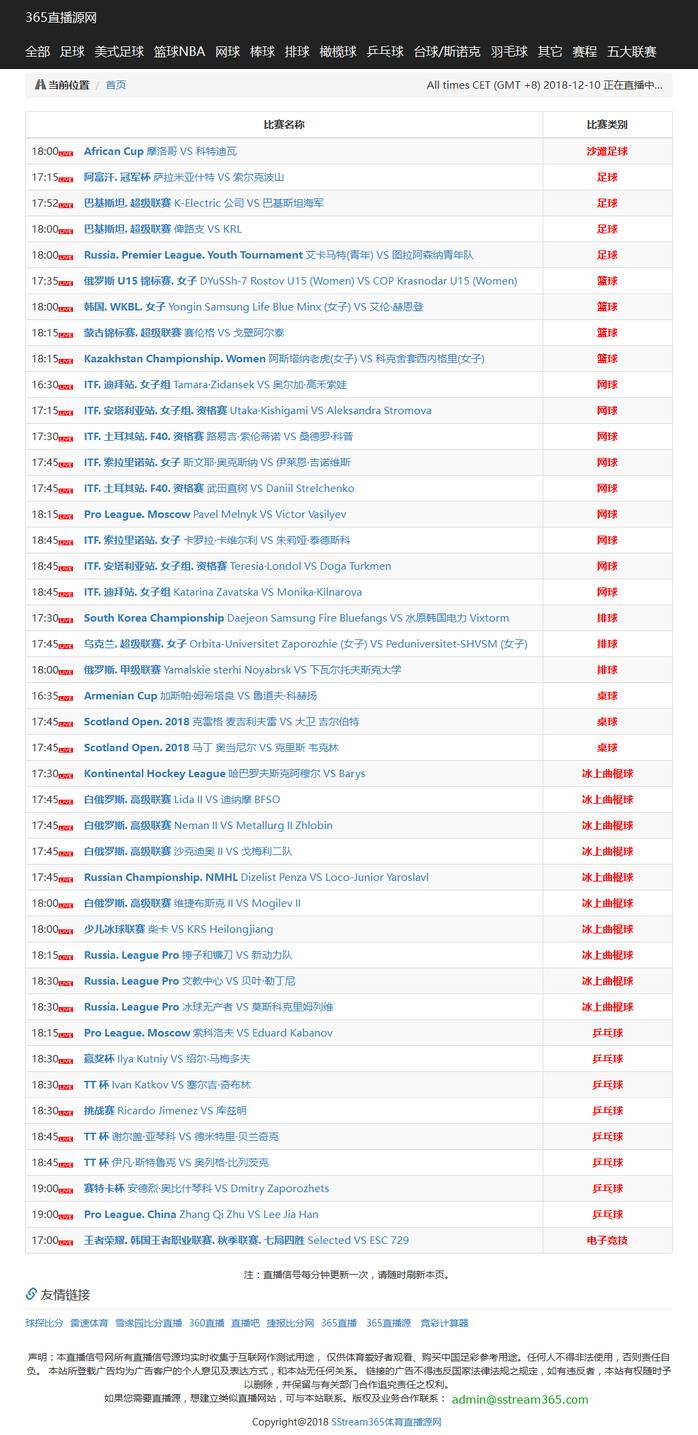
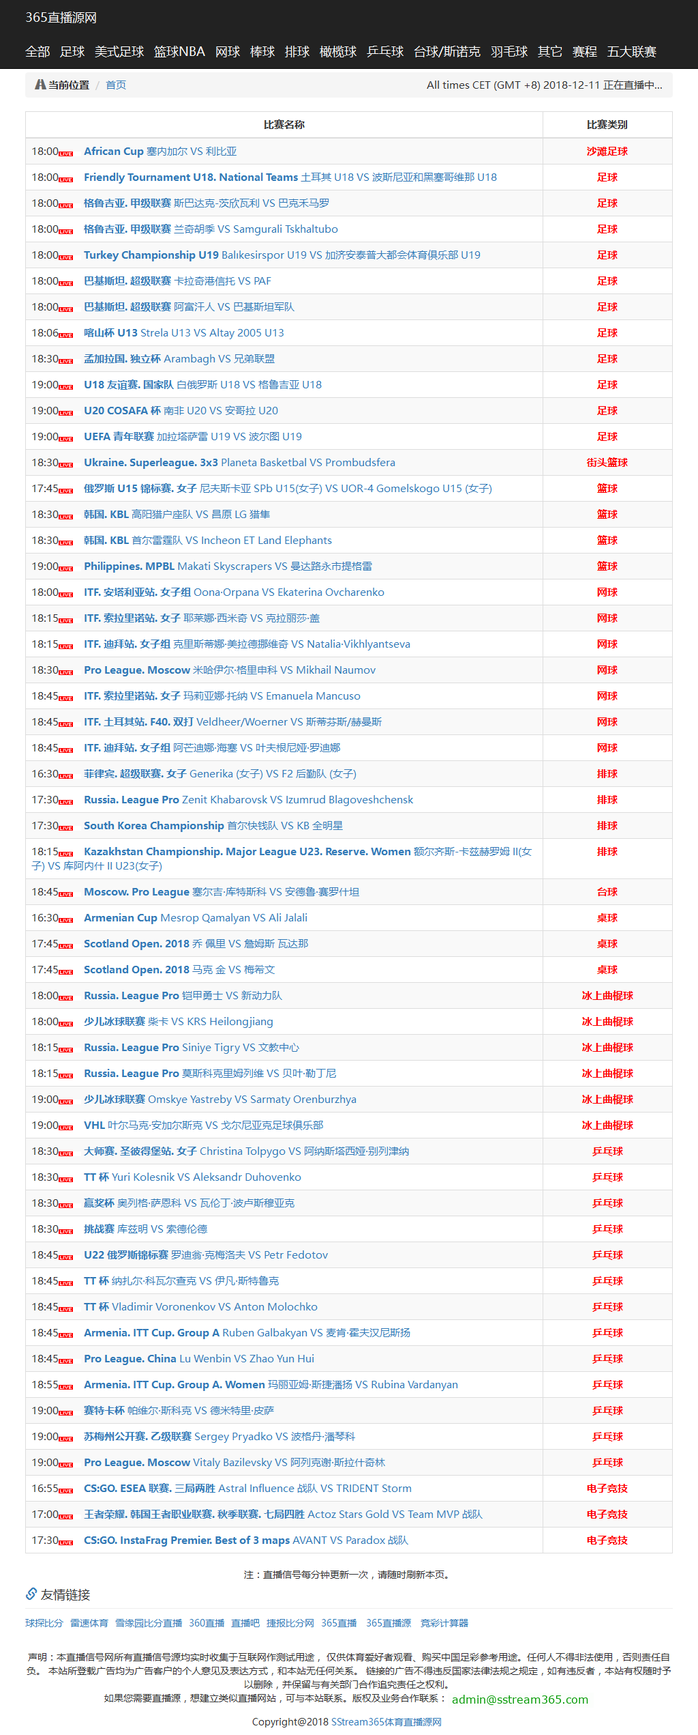
新增爬入数据库

Changed region(s): [[0.0, 0.0, 1.0, 1.0], [0.5938, 0.7727, 0.6562, 0.8036], [0.6875, 0.1854, 0.7188, 0.2164]]

diff --git a/hehe.html b/hehe.html
@@ -49,7 +49,7 @@
         <span class="glyphicon glyphicon-road"></span>
         <strong>当前位置</strong>
       </li>
-      <li class="active"><a href="/">首页</a></li>       <p class="pull-right visible-lg visible-md">All times CET  (GMT +8) 2018-12-10 正在直播中... </p>
+      <li class="active"><a href="/">首页</a></li>       <p class="pull-right visible-lg visible-md">All times CET  (GMT +8) 2018-12-11 正在直播中... </p>
   </ol>  
 	<div class="table-responsive">
   <table class="table table-striped table-bordered table-responsive">
@@ -61,133 +61,166 @@
     </thead>    
     <tbody>
     	<tr>
-        <td class="col-md-8">18:00<img src="/images/live.gif" border="0" title="Live...">  <a href="/League/Beach+Soccer/1843852.html"><b>African Cup</b></a> <a href="/live/Beach+Soccer/I1wVejkJkIxixsC2cEjcsDgyhBxgMto/Morocco_VS_Ivory+Coast/">摩洛哥 VS 科特迪瓦</a></td>
+        <td class="col-md-8">18:00<img src="/images/live.gif" border="0" title="Live...">  <a href="/League/Beach+Soccer/1843852.html"><b>African Cup</b></a> <a href="/live/Beach+Soccer/eQ0SJz1dxNtixsC2dkXbvDgxhRJgPdo/Senegal_VS_Libya/">塞内加尔 VS 利比亚</a></td>
         <td class="col-md-2 text-center"><font color="#FF0000"><b>沙滩足球</b></font></td>
         </tr><tr>
-        <td class="col-md-8">17:15<img src="/images/live.gif" border="0" title="Live...">  <a href="/League/Football/1842660.html"><b>阿富汗. 冠军杯</b></a> <a href="/live/Football/eVtELD0Ox4hh3t+3c0HcvCIuhRZtOtJd1Q/Saramyasht_VS_Sorkh+Poshan/">萨拉米亚什特 VS 索尔克波山</a></td>
+        <td class="col-md-8">18:00<img src="/images/live.gif" border="0" title="Live...">  <a href="/League/Football/1455757.html"><b>Friendly Tournament U18. National Teams</b></a> <a href="/live/Football/IVlGKz0Ix9Zh3t6ydUPZpCE1gRFo/Turkey+U18_VS_Bosnia+and+Herzegovina+U18/">土耳其 U18 VS 波斯尼亚和黑塞哥维那 U18</a></td>
         <td class="col-md-2 text-center"><font color="#FF0000"><b>足球</b></font></td>
         </tr><tr>
-        <td class="col-md-8">17:52<img src="/images/live.gif" border="0" title="Live...">  <a href="/League/Football/118671.html"><b>巴基斯坦. 超级联赛</b></a> <a href="/live/Football/JVBGezsJxYxh3t+0ckjavCIuhR1rPNI/K-Electric_VS_Pakistan+Navy/">K-Electric 公司 VS 巴基斯坦海军</a></td>
+        <td class="col-md-8">18:00<img src="/images/live.gif" border="0" title="Live...">  <a href="/League/Football/30539.html"><b>格鲁吉亚. 甲级联赛</b></a> <a href="/live/Football/c1pDKmwLxN1h3t+3dUbZpCY1hRNg/Tskhinvali_VS_Bakhmaro+Chokhatauri/">斯巴达克-茨欣瓦利 VS 巴克禾马罗</a></td>
         <td class="col-md-2 text-center"><font color="#FF0000"><b>足球</b></font></td>
         </tr><tr>
-        <td class="col-md-8">18:00<img src="/images/live.gif" border="0" title="Live...">  <a href="/League/Football/118671.html"><b>巴基斯坦. 超级联赛</b></a> <a href="/live/Football/dV4fejYGzdZh3t60cEHXpCQygBJgMw/Baloch_VS_KRL/">俾路支 VS KRL</a></td>
+        <td class="col-md-8">18:00<img src="/images/live.gif" border="0" title="Live...">  <a href="/League/Football/30539.html"><b>格鲁吉亚. 甲级联赛</b></a> <a href="/live/Football/eV9Dejlcw4th3t+9cEDdpCYxgBNu/Guria+Lanchkhuti_VS_Samgurali+Tskhaltubo/">兰奇胡季 VS Samgurali Tskhaltubo</a></td>
         <td class="col-md-2 text-center"><font color="#FF0000"><b>足球</b></font></td>
         </tr><tr>
-        <td class="col-md-8">18:00<img src="/images/live.gif" border="0" title="Live...">  <a href="/League/Football/119393.html"><b>Russia. Premier League. Youth Tournament</b></a> <a href="/live/Football/I14ULjpewd1h3tq9dUDbujg7gx1hOw/Akhmat+%28Youth%29_VS_Arsenal+Tula+%28Youth%29/">艾卡马特(青年) VS 图拉阿森纳青年队</a></td>
+        <td class="col-md-8">18:00<img src="/images/live.gif" border="0" title="Live...">  <a href="/League/Football/261997.html"><b>Turkey Championship U19</b></a> <a href="/live/Football/d14eKm1extph3tyzc0fYujg6hBFqPtI/Bal%C4%B1kesirspor+U19_VS_Gazisehir+Gaziantep+U19/">Balıkesirspor U19 VS 加济安泰普大都会体育俱乐部 U19</a></td>
         <td class="col-md-2 text-center"><font color="#FF0000"><b>足球</b></font></td>
         </tr><tr>
-        <td class="col-md-8">17:35<img src="/images/live.gif" border="0" title="Live...">  <a href="/League/Basketball/1535427.html"><b>俄罗斯 U15 锦标赛. 女子</b></a> <a href="/live/Basketball/dwpCLD0Pw4xj3t+3ckPWvCIuhRZsOdNb2w/DYuSSh-7+Rostov+U15+%28Women%29_VS_COP+Krasnodar+U15+%28Women%29/">DYuSSh-7 Rostov U15 (Women) VS COP Krasnodar U15 (Women)</a></td>
+        <td class="col-md-8">18:00<img src="/images/live.gif" border="0" title="Live...">  <a href="/League/Football/118671.html"><b>巴基斯坦. 超级联赛</b></a> <a href="/live/Football/IQ8SJzpezdxh3t+8dkPdpCc7jhZo/Karachi+Port+Trust_VS_PAF/">卡拉奇港信托 VS PAF</a></td>
+        <td class="col-md-2 text-center"><font color="#FF0000"><b>足球</b></font></td>
+        </tr><tr>
+        <td class="col-md-8">18:00<img src="/images/live.gif" border="0" title="Live...">  <a href="/League/Football/118671.html"><b>巴基斯坦. 超级联赛</b></a> <a href="/live/Football/dg9FLDwMloth3t60cELfpCc7jhZq/Afghan_VS_Pakistan+Army/">阿富汗人 VS 巴基斯坦军队</a></td>
+        <td class="col-md-2 text-center"><font color="#FF0000"><b>足球</b></font></td>
+        </tr><tr>
+        <td class="col-md-8">18:06<img src="/images/live.gif" border="0" title="Live...">  <a href="/League/Football/1820437.html"><b>喀山杯 U13</b></a> <a href="/live/Football/JFtGJ2hck95h3t+3ckbZuCYuhRZsPNxf1w/Strela+U13_VS_Altay+2005+U13/">Strela U13 VS Altay 2005 U13</a></td>
+        <td class="col-md-2 text-center"><font color="#FF0000"><b>足球</b></font></td>
+        </tr><tr>
+        <td class="col-md-8">18:30<img src="/images/live.gif" border="0" title="Live...">  <a href="/League/Football/1703466.html"><b>孟加拉国. 独立杯</b></a> <a href="/live/Football/JgwXJjoNwtdh3t68dkHavDg3gxRoOw/Arambagh_VS_Brothers+Union/">Arambagh VS 兄弟联盟</a></td>
+        <td class="col-md-2 text-center"><font color="#FF0000"><b>足球</b></font></td>
+        </tr><tr>
+        <td class="col-md-8">19:00<img src="/images/live.gif" border="0" title="Live...">  <a href="/League/Football/1149571.html"><b>U18 友谊赛. 国家队</b></a> <a href="/live/Football/dFBEfWsOl4xh3tm3d0PZpCQ1gBJqOw/Belarus+U18_VS_Georgia+U18/">白俄罗斯 U18 VS 格鲁吉亚 U18</a></td>
+        <td class="col-md-2 text-center"><font color="#FF0000"><b>足球</b></font></td>
+        </tr><tr>
+        <td class="col-md-8">19:00<img src="/images/live.gif" border="0" title="Live...">  <a href="/League/Football/1386525.html"><b>U20 COSAFA 杯</b></a> <a href="/live/Football/cFxEe2oNw99h3tyxf0jZujgwgBFuONI/South+Africa+U20_VS_Angola+U20/">南非 U20 VS 安哥拉 U20</a></td>
+        <td class="col-md-2 text-center"><font color="#FF0000"><b>足球</b></font></td>
+        </tr><tr>
+        <td class="col-md-8">19:00<img src="/images/live.gif" border="0" title="Live...">  <a href="/League/Football/252897.html"><b>UEFA 青年联赛</b></a> <a href="/live/Football/dFxDfToHx99h3t61fkHfpCc6hxVu/Galatasaray+U19_VS_Porto+U19/">加拉塔萨雷 U19 VS 波尔图 U19</a></td>
+        <td class="col-md-2 text-center"><font color="#FF0000"><b>足球</b></font></td>
+        </tr><tr>
+        <td class="col-md-8">18:30<img src="/images/live.gif" border="0" title="Live...">  <a href="/League/Streetball/1844963.html"><b>Ukraine. Superleague. 3x3</b></a> <a href="/live/Streetball/dQ0XfTwMlophw9iodULbvyIxhAlrON5Y1SOi/Planeta+Basketbal_VS_Prombudsfera/">Planeta Basketbal VS Prombudsfera</a></td>
+        <td class="col-md-2 text-center"><font color="#FF0000"><b>街头篮球</b></font></td>
+        </tr><tr>
+        <td class="col-md-8">17:45<img src="/images/live.gif" border="0" title="Live...">  <a href="/League/Basketball/1535427.html"><b>俄罗斯 U15 锦标赛. 女子</b></a> <a href="/live/Basketball/dFsSKDYIxt9j3ty8f0HbvCwuhRFpPd9X/Nevskaya+SPb+U15+%28Women%29_VS_UOR-4+Gomelskogo+U15+%28Women%29/">尼夫斯卡亚 SPb U15(女子) VS UOR-4  Gomelskogo U15 (女子)</a></td>
         <td class="col-md-2 text-center"><font color="#FF0000"><b>篮球</b></font></td>
         </tr><tr>
-        <td class="col-md-8">18:00<img src="/images/live.gif" border="0" title="Live...">  <a href="/League/Basketball/24625.html"><b>韩国. WKBL. 女子</b></a> <a href="/live/Basketball/JlgXLzxdwN5j3t6wdUHZpCcyghVhPNI/Yongin+Samsung+Life+Blue+Minx+%28Women%29_VS_Suwon+OK+Savingbank+OK+Shoot+%28Women%29/">Yongin Samsung Life Blue Minx (女子) VS 艾伦·赫恩登</a></td>
+        <td class="col-md-8">18:30<img src="/images/live.gif" border="0" title="Live...">  <a href="/League/Basketball/118927.html"><b>韩国. KBL</b></a> <a href="/live/Basketball/IwweLm1bl4pj3tq9fkLDvi06jw/Goyang+Orions_VS_Changwon+LG+Sakers/">高阳猎户座队 VS 昌原 LG 猎隼</a></td>
         <td class="col-md-2 text-center"><font color="#FF0000"><b>篮球</b></font></td>
         </tr><tr>
-        <td class="col-md-8">18:15<img src="/images/live.gif" border="0" title="Live...">  <a href="/League/Basketball/1683466.html"><b>蒙古锦标赛. 超级联赛</b></a> <a href="/live/Basketball/dwhGej8OzI9j3ty1cUjZvyYuhRZqM9tf1w/Selenge_VS_Govi-Altai/">赛伦格 VS 戈壁阿尔泰</a></td>
+        <td class="col-md-8">18:30<img src="/images/live.gif" border="0" title="Live...">  <a href="/League/Basketball/118927.html"><b>韩国. KBL</b></a> <a href="/live/Basketball/JFAWKzkHlI9j3tq9fkTDvi06hw/Seoul+Samsung+Thunders_VS_Incheon+ET+Land+Elephants/">首尔雷霆队 VS Incheon ET Land Elephants</a></td>
         <td class="col-md-2 text-center"><font color="#FF0000"><b>篮球</b></font></td>
         </tr><tr>
-        <td class="col-md-8">18:15<img src="/images/live.gif" border="0" title="Live...">  <a href="/League/Basketball/1396971.html"><b>Kazakhstan Championship. Women</b></a> <a href="/live/Basketball/cQhDf29bzIhj3tm2f0XavDgyhhVgPtJZ/Astana+Tigers+%28Women%29_VS_Sinegorie+Kokshetau+%28Women%29/">阿斯塔纳老虎(女子) VS 科克舍套西内格里(女子)</a></td>
+        <td class="col-md-8">19:00<img src="/images/live.gif" border="0" title="Live...">  <a href="/League/Basketball/1718899.html"><b>Philippines. MPBL</b></a> <a href="/live/Basketball/dwsXKGxbx9tj3tyyc0XXvSQuhhNrP9td0w/Makati+Skyscrapers_VS_Mandaluyong+El+Tigre/">Makati Skyscrapers VS 曼达路永市提格雷</a></td>
         <td class="col-md-2 text-center"><font color="#FF0000"><b>篮球</b></font></td>
         </tr><tr>
-        <td class="col-md-8">16:30<img src="/images/live.gif" border="0" title="Live...">  <a href="/League/Tennis/129071.html"><b>ITF. 迪拜站. 女子组</b></a> <a href="/live/Tennis/eV9DK2xalt1k3tu1f0bZpCQwghQ/Tamara+Zidansek_VS_Olga+Govortsova/">Tamara·Zidansek VS 奥尔加·高禾索娃</a></td>
+        <td class="col-md-8">18:00<img src="/images/live.gif" border="0" title="Live...">  <a href="/League/Tennis/103369.html"><b>ITF. 安塔利亚站. 女子组</b></a> <a href="/live/Tennis/cA9DKm9clItk3t+0d0HXuDgxghdvPd4/Oona+Orpana_VS_Ekaterina+Ovcharenko/">Oona·Orpana VS Ekaterina Ovcharenko</a></td>
         <td class="col-md-2 text-center"><font color="#FF0000"><b>网球</b></font></td>
         </tr><tr>
-        <td class="col-md-8">17:15<img src="/images/live.gif" border="0" title="Live...">  <a href="/League/Tennis/892515.html"><b>ITF. 安塔利亚站. 女子组. 资格赛</b></a> <a href="/live/Tennis/eAoWK28GxIxk3ty0f0TWujgyhhBsMt1b/Utaka+Kishigami_VS_Aleksandra+Stromova/">Utaka·Kishigami VS Aleksandra Stromova</a></td>
+        <td class="col-md-8">18:15<img src="/images/live.gif" border="0" title="Live...">  <a href="/League/Tennis/959383.html"><b>ITF. 索拉里诺站. 女子</b></a> <a href="/live/Tennis/dghDKjYGlN1k3t+1f0XfpC0wgR1vOw/Jelena+Simic_VS_Clarissa+Gai/">耶莱娜·西米奇 VS 克拉丽莎·盖</a></td>
         <td class="col-md-2 text-center"><font color="#FF0000"><b>网球</b></font></td>
         </tr><tr>
-        <td class="col-md-8">17:30<img src="/images/live.gif" border="0" title="Live...">  <a href="/League/Tennis/260047.html"><b>ITF. 土耳其站. F40. 资格赛</b></a> <a href="/live/Tennis/eV0WLjhcw4hk3t60cEfZsDg0gB1pMtg/Luigi+Sorrentino_VS_Sandro+Kopp/">路易吉·索伦蒂诺 VS 桑德罗·科普</a></td>
+        <td class="col-md-8">18:15<img src="/images/live.gif" border="0" title="Live...">  <a href="/League/Tennis/129071.html"><b>ITF. 迪拜站. 女子组</b></a> <a href="/live/Tennis/IlgUKTwNl9hk3ty2dkjDuyIzhB0/Kristina+Mladenovic_VS_Natalia+Vikhlyantseva/">克里斯蒂娜·美拉德挪维奇 VS Natalia·Vikhlyantseva</a></td>
         <td class="col-md-2 text-center"><font color="#FF0000"><b>网球</b></font></td>
         </tr><tr>
-        <td class="col-md-8">17:45<img src="/images/live.gif" border="0" title="Live...">  <a href="/League/Tennis/959383.html"><b>ITF. 索拉里诺站. 女子</b></a> <a href="/live/Tennis/cQpBKGhZl9dk3t6zcELfvDgxghFvPw/Svenja+Ochsner_VS_Elaine+Genovese/">斯文耶·奥克斯纳 VS 伊莱恩·吉诺维斯</a></td>
+        <td class="col-md-8">18:30<img src="/images/live.gif" border="0" title="Live...">  <a href="/League/Tennis/1821460.html"><b>Pro League. Moscow</b></a> <a href="/live/Tennis/dVweKDhewtlk3t+0cEbZuiYuhRVoM9lW1Q/Mikhail+Grishchenko_VS_Mikhail+Naumov/">米哈伊尔·格里申科 VS Mikhail Naumov</a></td>
         <td class="col-md-2 text-center"><font color="#FF0000"><b>网球</b></font></td>
         </tr><tr>
-        <td class="col-md-8">17:45<img src="/images/live.gif" border="0" title="Live...">  <a href="/League/Tennis/260047.html"><b>ITF. 土耳其站. F40. 资格赛</b></a> <a href="/live/Tennis/cgsWLW9ekNtk3tm0fkTYsDgygRZpO9xX/Naoki+Takeda_VS_Daniil+Strelchenko/">武田直树 VS Daniil Strelchenko</a></td>
+        <td class="col-md-8">18:45<img src="/images/live.gif" border="0" title="Live...">  <a href="/League/Tennis/959383.html"><b>ITF. 索拉里诺站. 女子</b></a> <a href="/live/Tennis/eQsfe2tZlIxk3t+0ckTXpCcxghBrO9g/Miriana+Tona_VS_Emanuela+Mancuso/">玛莉亚娜·托纳 VS Emanuela Mancuso</a></td>
         <td class="col-md-2 text-center"><font color="#FF0000"><b>网球</b></font></td>
         </tr><tr>
-        <td class="col-md-8">18:15<img src="/images/live.gif" border="0" title="Live...">  <a href="/League/Tennis/1821460.html"><b>Pro League. Moscow</b></a> <a href="/live/Tennis/Jg1ELz8Nk49k3t+0dkbbuyIuhRVoPN9Y0w/Pavel+Melnyk_VS_Victor+Vasilyev/">Pavel Melnyk VS Victor Vasilyev</a></td>
+        <td class="col-md-8">18:45<img src="/images/live.gif" border="0" title="Live...">  <a href="/League/Tennis/260429.html"><b>ITF. 土耳其站. F40. 双打</b></a> <a href="/live/Tennis/JVpDJm0Nxt9k3t+1dkXdujg2hhNtPw/Veldheer_Woerner_VS_Stevens_Hermans/">Veldheer/Woerner VS 斯蒂芬斯/赫曼斯</a></td>
         <td class="col-md-2 text-center"><font color="#FF0000"><b>网球</b></font></td>
         </tr><tr>
-        <td class="col-md-8">18:45<img src="/images/live.gif" border="0" title="Live...">  <a href="/League/Tennis/959383.html"><b>ITF. 索拉里诺站. 女子</b></a> <a href="/live/Tennis/dAwVfzhbxo1k3tWzcELYuDg3gRNsM9I/Carola+Cavelli_VS_Giulia+Tedesco/">卡罗拉·卡维尔利 VS 朱莉娅·泰德斯科</a></td>
+        <td class="col-md-8">18:45<img src="/images/live.gif" border="0" title="Live...">  <a href="/League/Tennis/129071.html"><b>ITF. 迪拜站. 女子组</b></a> <a href="/live/Tennis/JAoRKDYPk9tk3tyzdEDbpCc2gB1g/Amandine+Hesse_VS_Evgeniya+Rodina/">阿芒迪娜·海塞 VS 叶夫根尼娅·罗迪娜</a></td>
         <td class="col-md-2 text-center"><font color="#FF0000"><b>网球</b></font></td>
         </tr><tr>
-        <td class="col-md-8">18:45<img src="/images/live.gif" border="0" title="Live...">  <a href="/League/Tennis/892515.html"><b>ITF. 安塔利亚站. 女子组. 资格赛</b></a> <a href="/live/Tennis/JlxCKTcJwNZk3t+1fknfujgyhhBvOd9d/Teresia+Londol_VS_Doga+Turkmen/">Teresia·Londol VS Doga Turkmen</a></td>
-        <td class="col-md-2 text-center"><font color="#FF0000"><b>网球</b></font></td>
-        </tr><tr>
-        <td class="col-md-8">18:45<img src="/images/live.gif" border="0" title="Live...">  <a href="/League/Tennis/129071.html"><b>ITF. 迪拜站. 女子组</b></a> <a href="/live/Tennis/dQxBJjcNwYpk3tyyf0TavDgyghVpMto/Katarina+Zavatska_VS_Monika+Kilnarova/">Katarina Zavatska VS Monika·Kilnarova</a></td>
-        <td class="col-md-2 text-center"><font color="#FF0000"><b>网球</b></font></td>
-        </tr><tr>
-        <td class="col-md-8">17:30<img src="/images/live.gif" border="0" title="Live...">  <a href="/League/Volleyball/122261.html"><b>South Korea Championship</b></a> <a href="/live/Volleyball/dVwReGoIk4hm3tSwc0bDsCA2jw/Daejeon+Samsung+Fire+Bluefangs_VS_Suwon+KEPCO+Vixtorm/">Daejeon Samsung Fire Bluefangs VS 水原韩国电力 Vixtorm</a></td>
+        <td class="col-md-8">16:30<img src="/images/live.gif" border="0" title="Live...">  <a href="/League/Volleyball/270677.html"><b>菲律宾. 超级联赛. 女子</b></a> <a href="/live/Volleyball/cgxFfGpdxtpm3ty0f0HZsDgwhxFrPd4/Generika+%28Women%29_VS_F2+Logistics+%28Women%29/">Generika (女子) VS F2 后勤队 (女子)</a></td>
         <td class="col-md-2 text-center"><font color="#FF0000"><b>排球</b></font></td>
         </tr><tr>
-        <td class="col-md-8">17:45<img src="/images/live.gif" border="0" title="Live...">  <a href="/League/Volleyball/23939.html"><b>乌克兰. 超级联赛. 女子</b></a> <a href="/live/Volleyball/JVgRJ20Hzd9m3t+9fkffpCY1gBBo/Orbita-Universitet+Zaporozhie+%28Women%29_VS_Peduniversitet-SHVSM+%28Women%29/">Orbita-Universitet Zaporozhie (女子) VS Peduniversitet-SHVSM (女子)</a></td>
+        <td class="col-md-8">17:30<img src="/images/live.gif" border="0" title="Live...">  <a href="/League/Volleyball/1749148.html"><b>Russia. League Pro</b></a> <a href="/live/Volleyball/IQ1DKGxekNhm3t+3ckPZuiYuhRZsOdxX1w/Zenit+Khabarovsk_VS_Izumrud+Blagoveshchensk/">Zenit Khabarovsk VS Izumrud Blagoveshchensk</a></td>
         <td class="col-md-2 text-center"><font color="#FF0000"><b>排球</b></font></td>
         </tr><tr>
-        <td class="col-md-8">18:00<img src="/images/live.gif" border="0" title="Live...">  <a href="/League/Volleyball/1124833.html"><b>俄罗斯. 甲级联赛</b></a> <a href="/live/Volleyball/cVtCKjZewoxm3ty9dUDWvDgwjh1tOQ/Yamalskie+sterhi_VS_University+Nizhnevartovsk/">Yamalskie sterhi Noyabrsk VS 下瓦尔托夫斯克大学</a></td>
+        <td class="col-md-8">17:30<img src="/images/live.gif" border="0" title="Live...">  <a href="/League/Volleyball/122261.html"><b>South Korea Championship</b></a> <a href="/live/Volleyball/JQwWLTlZk95m3tSwckTDuyUwjhds/Seoul+Rush+Cash_VS_KB+Stars/">首尔快钱队 VS KB 全明星</a></td>
         <td class="col-md-2 text-center"><font color="#FF0000"><b>排球</b></font></td>
         </tr><tr>
-        <td class="col-md-8">16:35<img src="/images/live.gif" border="0" title="Live...">  <a href="/League/Snooker/1763643.html"><b>Armenian Cup</b></a> <a href="/live/Snooker/dF0RLT8PzdZjw8C0cEHcsS00mhVgPNlf2iA/Gaspar+Mkhitaryan_VS_Rudolf+Keheyan/">加斯帕·姆希塔良 VS 鲁道夫·科赫扬</a></td>
+        <td class="col-md-8">18:15<img src="/images/live.gif" border="0" title="Live...">  <a href="/League/Volleyball/1696743.html"><b>Kazakhstan Championship. Major League U23. Reserve. Women</b></a> <a href="/live/Volleyball/dl0WJ2gOzNlm3ty1f0LZsSIuhhRhONxW0w/Irtysh-Kazhrom+ll+U23+%28Women%29_VS_Kuanysh+II+U23+%28Women%29/">额尔齐斯-卡兹赫罗姆 II(女子) VS 库阿内什 II U23(女子)</a></td>
+        <td class="col-md-2 text-center"><font color="#FF0000"><b>排球</b></font></td>
+        </tr><tr>
+        <td class="col-md-8">18:45<img src="/images/live.gif" border="0" title="Live...">  <a href="/League/Billiards/1727843.html"><b>Moscow. Pro League</b></a> <a href="/live/Billiards/eVsXfTsMl91hwcC0dEjfuiM6mhVtON1Y2iI/Sergey+Lutsker_VS_Andrei+Seroshtan/">塞尔吉·库特斯科 VS 安德鲁·赛罗什坦</a></td>
+        <td class="col-md-2 text-center"><font color="#FF0000"><b>台球</b></font></td>
+        </tr><tr>
+        <td class="col-md-8">16:30<img src="/images/live.gif" border="0" title="Live...">  <a href="/League/Snooker/1763643.html"><b>Armenian Cup</b></a> <a href="/live/Snooker/eVAeKj0Ix49jw8C0cETdvSU2mhZoO9tc0Sg/Mesrop+Qamalyan_VS_Ali+Jalali/">Mesrop Qamalyan VS Ali Jalali</a></td>
         <td class="col-md-2 text-center"><font color="#FF0000"><b>桌球</b></font></td>
         </tr><tr>
-        <td class="col-md-8">17:45<img src="/images/live.gif" border="0" title="Live...">  <a href="/League/Snooker/1843374.html"><b>Scotland Open. 2018</b></a> <a href="/live/Snooker/Jl8VLT5ZzI9jw8C0c0HZsCAuhhFpO9I/Craig+MacGillivray_VS_David+Gilbert/">克雷格 麦吉利夫雷 VS 大卫 吉尔伯特</a></td>
+        <td class="col-md-8">17:45<img src="/images/live.gif" border="0" title="Live...">  <a href="/League/Snooker/1843374.html"><b>Scotland Open. 2018</b></a> <a href="/live/Snooker/JVsUK2gNzd1jw8C0ckDcuDgxgxNuMw/Joe+Perry_VS_James+Wattana/">乔 佩里 VS 詹姆斯 瓦达那</a></td>
         <td class="col-md-2 text-center"><font color="#FF0000"><b>桌球</b></font></td>
         </tr><tr>
-        <td class="col-md-8">17:45<img src="/images/live.gif" border="0" title="Live...">  <a href="/League/Snooker/1843374.html"><b>Scotland Open. 2018</b></a> <a href="/live/Snooker/cgxGLDYIkY1jw8C3dkXbsDgxhhVvPw/Martin+O%27Donnell_VS_Chris+Wakelin/">马丁 奥当尼尔 VS 克里斯 韦克林</a></td>
+        <td class="col-md-8">17:45<img src="/images/live.gif" border="0" title="Live...">  <a href="/League/Snooker/1843374.html"><b>Scotland Open. 2018</b></a> <a href="/live/Snooker/c1gSJj1ZwNljw8C0ckDeujgygx1sMtg/Mark+King_VS_Mei+Xiwen/">马克 金 VS 梅希文</a></td>
         <td class="col-md-2 text-center"><font color="#FF0000"><b>桌球</b></font></td>
         </tr><tr>
-        <td class="col-md-8">17:30<img src="/images/live.gif" border="0" title="Live...">  <a href="/League/Ice+Hockey/3355.html"><b>Kontinental Hockey League</b></a> <a href="/live/Ice+Hockey/eVFBejkMxdpi3tW3fkTDsSc6gQ/Amur+Khabarovsk_VS_Barys/">哈巴罗夫斯克阿穆尔 VS Barys</a></td>
-        <td class="col-md-2 text-center"><font color="#FF0000"><b>冰上曲棍球</b></font></td>
-        </tr><tr>
-        <td class="col-md-8">17:45<img src="/images/live.gif" border="0" title="Live...">  <a href="/League/Ice+Hockey/107583.html"><b>白俄罗斯. 高级联赛</b></a> <a href="/live/Ice+Hockey/JV0TfzkMxY9i3t60cEPdpCAwhhBgOQ/Lida+II_VS_Dynamo+BFSO/">Lida II VS 迪纳摩 BFSO</a></td>
-        <td class="col-md-2 text-center"><font color="#FF0000"><b>冰上曲棍球</b></font></td>
-        </tr><tr>
-        <td class="col-md-8">17:45<img src="/images/live.gif" border="0" title="Live...">  <a href="/League/Ice+Hockey/107583.html"><b>白俄罗斯. 高级联赛</b></a> <a href="/live/Ice+Hockey/JA0WfzcGw4pi3t60cETdpC02gRVu/Neman+II_VS_Metallurg+Zhlobin+II/">Neman II VS Metallurg II Zhlobin</a></td>
-        <td class="col-md-2 text-center"><font color="#FF0000"><b>冰上曲棍球</b></font></td>
-        </tr><tr>
-        <td class="col-md-8">17:45<img src="/images/live.gif" border="0" title="Live...">  <a href="/League/Ice+Hockey/107583.html"><b>白俄罗斯. 高级联赛</b></a> <a href="/live/Ice+Hockey/I18TKz4HltZi3t+wd0DXpCc1jhVq/Shakhtyor+Soligorsk+II_VS_Gomel+II/">沙克迪奥 II VS 戈梅利二队</a></td>
-        <td class="col-md-2 text-center"><font color="#FF0000"><b>冰上曲棍球</b></font></td>
-        </tr><tr>
-        <td class="col-md-8">17:45<img src="/images/live.gif" border="0" title="Live...">  <a href="/League/Ice+Hockey/1322165.html"><b>Russian Championship. NMHL</b></a> <a href="/live/Ice+Hockey/JF5EejkOkNdi3tm3c0PfpCcwgh1u/Dizelist+Penza_VS_Loco-Junior+Yaroslavl/">Dizelist Penza VS Loco-Junior Yaroslavl</a></td>
-        <td class="col-md-2 text-center"><font color="#FF0000"><b>冰上曲棍球</b></font></td>
-        </tr><tr>
-        <td class="col-md-8">18:00<img src="/images/live.gif" border="0" title="Live...">  <a href="/League/Ice+Hockey/107583.html"><b>白俄罗斯. 高级联赛</b></a> <a href="/live/Ice+Hockey/eAhGfzgNzYpi3tm3fkDdpCQ1hRVqO9o/Vitebsk+II_VS_Mogilev+II/">维捷布斯克 II VS Mogilev II</a></td>
+        <td class="col-md-8">18:00<img src="/images/live.gif" border="0" title="Live...">  <a href="/League/Ice+Hockey/1774637.html"><b>Russia. League Pro</b></a> <a href="/live/Ice+Hockey/d1geKT4Hw9hi3t+3dEjbsCwuhRZqMt5X0Q/Broneboici_VS_Reaktivatory/">铠甲勇士 VS 新动力队</a></td>
         <td class="col-md-2 text-center"><font color="#FF0000"><b>冰上曲棍球</b></font></td>
         </tr><tr>
         <td class="col-md-8">18:00<img src="/images/live.gif" border="0" title="Live...">  <a href="/League/Ice+Hockey/104781.html"><b>少儿冰球联赛</b></a> <a href="/live/Ice+Hockey/Jl8QJj5bwthi3ty9cEPcuCIujxVvMt1Z/Chaika_VS_KRS+Heilongjiang/">柴卡 VS KRS Heilongjiang</a></td>
         <td class="col-md-2 text-center"><font color="#FF0000"><b>冰上曲棍球</b></font></td>
         </tr><tr>
-        <td class="col-md-8">18:15<img src="/images/live.gif" border="0" title="Live...">  <a href="/League/Ice+Hockey/1774637.html"><b>Russia. League Pro</b></a> <a href="/live/Ice+Hockey/dgpBLm9cwdli3t6zc0XXvDgxhRdhP9Jd/Hammer+and+Sickle_VS_Reaktivatory/">锤子和镰刀 VS 新动力队</a></td>
+        <td class="col-md-8">18:15<img src="/images/live.gif" border="0" title="Live...">  <a href="/League/Ice+Hockey/1774637.html"><b>Russia. League Pro</b></a> <a href="/live/Ice+Hockey/JAoXezcKzd1i3ty9dEnZsCIuhhNpP99Y0Q/Siniye+Tigry_VS_Centrovie+Kulturologi/">Siniye Tigry VS 文教中心</a></td>
         <td class="col-md-2 text-center"><font color="#FF0000"><b>冰上曲棍球</b></font></td>
         </tr><tr>
-        <td class="col-md-8">18:30<img src="/images/live.gif" border="0" title="Live...">  <a href="/League/Ice+Hockey/1774637.html"><b>Russia. League Pro</b></a> <a href="/live/Ice+Hockey/dg0QfTYNw9li3tyyd0XavyYuhhxsP9tW0w/Centrovie+Kulturologi_VS_Belye+Ldiny/">文教中心 VS 贝叶·勒丁尼</a></td>
+        <td class="col-md-8">18:15<img src="/images/live.gif" border="0" title="Live...">  <a href="/League/Ice+Hockey/1774637.html"><b>Russia. League Pro</b></a> <a href="/live/Ice+Hockey/eFtEeG8JxYpi3tyyd0XavyIuhhxsP9tW0w/Moscow+Kremlevci_VS_Belye+Ldiny/">莫斯科克里姆列维 VS 贝叶·勒丁尼</a></td>
         <td class="col-md-2 text-center"><font color="#FF0000"><b>冰上曲棍球</b></font></td>
         </tr><tr>
-        <td class="col-md-8">18:30<img src="/images/live.gif" border="0" title="Live...">  <a href="/League/Ice+Hockey/1774637.html"><b>Russia. League Pro</b></a> <a href="/live/Ice+Hockey/dgpDfToHl9pi3tyyd0XavyAuhhNpP99Y1Q/Proletarians+of+Hockey_VS_Moscow+Kremlevci/">冰球无产者 VS 莫斯科克里姆列维</a></td>
+        <td class="col-md-8">19:00<img src="/images/live.gif" border="0" title="Live...">  <a href="/League/Ice+Hockey/104781.html"><b>少儿冰球联赛</b></a> <a href="/live/Ice+Hockey/eQ9EJj0OkNdi3tW2cEjDuyU2jxxg/Omskye+Yastreby_VS_Sarmaty+Orenburzhya/">Omskye Yastreby VS Sarmaty Orenburzhya</a></td>
         <td class="col-md-2 text-center"><font color="#FF0000"><b>冰上曲棍球</b></font></td>
         </tr><tr>
-        <td class="col-md-8">18:15<img src="/images/live.gif" border="0" title="Live...">  <a href="/League/Table+Tennis/1836132.html"><b>Pro League. Moscow</b></a> <a href="/live/Table+Tennis/d1lFKDoIwdZhw8CwcknWvywuhhZgOt5e2w/Yuri+Sokolov_VS_Eduard+Kabanov/">索科洛夫 VS Eduard Kabanov</a></td>
+        <td class="col-md-8">19:00<img src="/images/live.gif" border="0" title="Live...">  <a href="/League/Ice+Hockey/101763.html"><b>VHL</b></a> <a href="/live/Ice+Hockey/I1wfKWtbzNZi3tW2dkLDuyE6gR0/Ermak+Angarsk_VS_Gornyak+Uchaly/">叶尔马克·安加尔斯克 VS 戈尔尼亚克足球俱乐部</a></td>
+        <td class="col-md-2 text-center"><font color="#FF0000"><b>冰上曲棍球</b></font></td>
+        </tr><tr>
+        <td class="col-md-8">18:30<img src="/images/live.gif" border="0" title="Live...">  <a href="/League/Table+Tennis/138287.html"><b>大师赛. 圣彼得堡站. 女子</b></a> <a href="/live/Table+Tennis/dVhCJjZZw9hhw8CxdkPcuDgygxRhO9tZ/Christina+Tolpygo_VS_Anastasiya+Berezina/">Christina Tolpygo VS 阿纳斯塔西娅·别列津纳</a></td>
         <td class="col-md-2 text-center"><font color="#FF0000"><b>乒乓球</b></font></td>
         </tr><tr>
-        <td class="col-md-8">18:30<img src="/images/live.gif" border="0" title="Live...">  <a href="/League/Table+Tennis/1792858.html"><b>赢奖杯</b></a> <a href="/live/Table+Tennis/eQxBJmsKzN5hw8C3dkncviEwmhdsMtpf2w/Ilya+Kutniy_VS_Zaur+Mamedov/">Ilya Kutniy VS 绍尔·马梅多夫</a></td>
+        <td class="col-md-8">18:30<img src="/images/live.gif" border="0" title="Live...">  <a href="/League/Table+Tennis/1197285.html"><b>TT 杯</b></a> <a href="/live/Table+Tennis/IQ8TLm0Kxophw8CydUbeuCwugRxoPdpf/Yuri+Kolesnik_VS_Aleksandr+Duhovenko/">Yuri Kolesnik VS Aleksandr Duhovenko</a></td>
         <td class="col-md-2 text-center"><font color="#FF0000"><b>乒乓球</b></font></td>
         </tr><tr>
-        <td class="col-md-8">18:30<img src="/images/live.gif" border="0" title="Live...">  <a href="/League/Table+Tennis/1197285.html"><b>TT 杯</b></a> <a href="/live/Table+Tennis/cA9DezsIzN9hw8C0cEDYuDgxhxdsPNtZ/Ivan+Katkov_VS_Sergey+Cibulin/">Ivan Katkov VS 塞尔吉·奇布林</a></td>
+        <td class="col-md-8">18:30<img src="/images/live.gif" border="0" title="Live...">  <a href="/League/Table+Tennis/1792858.html"><b>赢奖杯</b></a> <a href="/live/Table+Tennis/cgsRezlexd9hw8C0fkPXsSc2mhBgO95b1Q/Oleg+Saenko_VS_Valentin+Polusmuak/">奥列格·萨恩科 VS 瓦伦丁·波卢斯穆亚克</a></td>
         <td class="col-md-2 text-center"><font color="#FF0000"><b>乒乓球</b></font></td>
         </tr><tr>
-        <td class="col-md-8">18:30<img src="/images/live.gif" border="0" title="Live...">  <a href="/League/Table+Tennis/270.html"><b>挑战赛</b></a> <a href="/live/Table+Tennis/dFsRf2wJxdlhw8C3d0TWuCQuhhBrPA/Ricardo+Jimenez_VS_Fedor+Kuzmin/">Ricardo Jimenez VS 库兹明</a></td>
+        <td class="col-md-8">18:30<img src="/images/live.gif" border="0" title="Live...">  <a href="/League/Table+Tennis/270.html"><b>挑战赛</b></a> <a href="/live/Table+Tennis/d11BJzsKxIthw8C0c0LYpCMwgRBs/Fedor+Kuzmin_VS_Simon+Soderlund/">库兹明 VS 索德伦德</a></td>
         <td class="col-md-2 text-center"><font color="#FF0000"><b>乒乓球</b></font></td>
         </tr><tr>
-        <td class="col-md-8">18:45<img src="/images/live.gif" border="0" title="Live...">  <a href="/League/Table+Tennis/1197285.html"><b>TT 杯</b></a> <a href="/live/Table+Tennis/cFsWfDsIk91hw8C3d0LduCwwmhZrON9b2iY/Sergey+Yacenko_VS_Dmitry+Belanchik/">谢尔盖·亚琴科 VS 德米特里·贝兰奇克</a></td>
+        <td class="col-md-8">18:45<img src="/images/live.gif" border="0" title="Live...">  <a href="/League/Table+Tennis/1694261.html"><b>U22 俄罗斯锦标赛</b></a> <a href="/live/Table+Tennis/dg1GKTZZlIthw8C9fkDZuywuhBxuONg/Rodion+Chmelov_VS_Petr+Fedotov/">罗迪翁·克梅洛夫 VS Petr Fedotov</a></td>
         <td class="col-md-2 text-center"><font color="#FF0000"><b>乒乓球</b></font></td>
         </tr><tr>
-        <td class="col-md-8">18:45<img src="/images/live.gif" border="0" title="Live...">  <a href="/League/Table+Tennis/1197285.html"><b>TT 杯</b></a> <a href="/live/Table+Tennis/dQxCempbwothw8C2cEfcsSYuhBBtPdlb/Ivan+Struk_VS_Oleg+Bileckyi/">伊凡·斯特鲁克 VS 奥列格·比列茨克</a></td>
+        <td class="col-md-8">18:45<img src="/images/live.gif" border="0" title="Live...">  <a href="/League/Table+Tennis/1197285.html"><b>TT 杯</b></a> <a href="/live/Table+Tennis/JVkeLzpazN5hw8CwdEHbuSYuhBNuONNd/Nazar+Kovalchuck_VS_Ivan+Struk/">纳扎尔·科瓦尔查克 VS 伊凡·斯特鲁克</a></td>
         <td class="col-md-2 text-center"><font color="#FF0000"><b>乒乓球</b></font></td>
         </tr><tr>
-        <td class="col-md-8">19:00<img src="/images/live.gif" border="0" title="Live...">  <a href="/League/Table+Tennis/1733171.html"><b>赛特卡杯</b></a> <a href="/live/Table+Tennis/dlgRemgHlothw8C0cUnXuSEymhVuPt9e1SY/Andrei+Obishchenko_VS_Dmitry+Zaporozhets/">安德烈·奥比什琴科 VS Dmitry Zaporozhets</a></td>
+        <td class="col-md-8">18:45<img src="/images/live.gif" border="0" title="Live...">  <a href="/League/Table+Tennis/1197285.html"><b>TT 杯</b></a> <a href="/live/Table+Tennis/I1AeKD1cx99hw8CzfkHesSAuhRVuPdJb/Vladimir+Voronenkov_VS_Anton+Molochko/">Vladimir Voronenkov VS Anton Molochko</a></td>
         <td class="col-md-2 text-center"><font color="#FF0000"><b>乒乓球</b></font></td>
         </tr><tr>
-        <td class="col-md-8">19:00<img src="/images/live.gif" border="0" title="Live...">  <a href="/League/Table+Tennis/1836108.html"><b>Pro League. China</b></a> <a href="/live/Table+Tennis/cggULDgPlothw8C3dUTZuiY6mhZrO9lX0iQ/Zhang+Qi+Zhu_VS_Lee+Jia+Han/">Zhang Qi Zhu VS Lee Jia Han</a></td>
+        <td class="col-md-8">18:45<img src="/images/live.gif" border="0" title="Live...">  <a href="/League/Table+Tennis/1491743.html"><b>Armenia. ITT Cup. Group A</b></a> <a href="/live/Table+Tennis/d1kRLmoLkYthw8CzcEHfviwughJgM95b/Ruben+Galbakyan_VS_Melkon+Hovhannisyan/">Ruben Galbakyan VS 麦肯·霍夫汉尼斯扬</a></td>
         <td class="col-md-2 text-center"><font color="#FF0000"><b>乒乓球</b></font></td>
         </tr><tr>
-        <td class="col-md-8">17:00<img src="/images/live.gif" border="0" title="Live...">  <a href="/League/eSports/1841650.html"><b>王者荣耀. 韩国王者职业联赛. 秋季联赛. 七局四胜</b></a> <a href="/live/eSports/JghCLW0Nk9xkw8C3dkHXuiMwmhZoO9Jd1CA/Selected_VS_ESC+729/">Selected VS ESC 729</a></td>
+        <td class="col-md-8">18:45<img src="/images/live.gif" border="0" title="Live...">  <a href="/League/Table+Tennis/1836108.html"><b>Pro League. China</b></a> <a href="/live/Table+Tennis/I18fKzYGwNZhw8C3dknduyYwmhZoM9xa2yY/Lu+Wenbin_VS_Zhao+Yun+Hui/">Lu Wenbin VS Zhao Yun Hui</a></td>
+        <td class="col-md-2 text-center"><font color="#FF0000"><b>乒乓球</b></font></td>
+        </tr><tr>
+        <td class="col-md-8">18:55<img src="/images/live.gif" border="0" title="Live...">  <a href="/League/Table+Tennis/1492059.html"><b>Armenia. ITT Cup. Group A. Women</b></a> <a href="/live/Table+Tennis/cFEWKm0Pwdphw8C0d0XcuyUwmhJuO9pX1Q/Mariam+Stepanyan_VS_Rubina+Vardanyan/">玛丽亚姆·斯捷潘扬 VS Rubina Vardanyan</a></td>
+        <td class="col-md-2 text-center"><font color="#FF0000"><b>乒乓球</b></font></td>
+        </tr><tr>
+        <td class="col-md-8">19:00<img src="/images/live.gif" border="0" title="Live...">  <a href="/League/Table+Tennis/1733171.html"><b>赛特卡杯</b></a> <a href="/live/Table+Tennis/dAwSfGsJzYhhw8C0c0HauyUwmhBqP99b/Pavel+Skok_VS_Dmitriy+Pisar/">帕维尔·斯科克 VS 德米特里·皮萨</a></td>
+        <td class="col-md-2 text-center"><font color="#FF0000"><b>乒乓球</b></font></td>
+        </tr><tr>
+        <td class="col-md-8">19:00<img src="/images/live.gif" border="0" title="Live...">  <a href="/League/Table+Tennis/1701124.html"><b>苏梅州公开赛. 乙级联赛</b></a> <a href="/live/Table+Tennis/JgtFfToMzNphw8C3dUbcsSIuhhNvPdxb/Sergey+Pryadko_VS_Bogdan+Panchenko/">Sergey Pryadko VS 波格丹·潘琴科</a></td>
+        <td class="col-md-2 text-center"><font color="#FF0000"><b>乒乓球</b></font></td>
+        </tr><tr>
+        <td class="col-md-8">19:00<img src="/images/live.gif" border="0" title="Live...">  <a href="/League/Table+Tennis/1836132.html"><b>Pro League. Moscow</b></a> <a href="/live/Table+Tennis/cgwULDkOwtphw8CzdEDdviYuhh1rOthc1w/Vitaly+Bazilevsky_VS_Alexey+Slashchilin/">Vitaly Bazilevsky VS 阿列克谢·斯拉什奇林</a></td>
+        <td class="col-md-2 text-center"><font color="#FF0000"><b>乒乓球</b></font></td>
+        </tr><tr>
+        <td class="col-md-8">16:55<img src="/images/live.gif" border="0" title="Live...">  <a href="/League/eSports/1635161.html"><b>CS:GO. ESEA 联赛. 三局两胜</b></a> <a href="/live/eSports/IV4QJ20Klttkw8C0f0XZuiY0mhNsMttY0Q/Astral+Influence_VS_TRIDENT+Storm/">Astral Influence 战队 VS TRIDENT Storm</a></td>
+        <td class="col-md-2 text-center"><font color="#FF0000"><b>电子竞技</b></font></td>
+        </tr><tr>
+        <td class="col-md-8">17:00<img src="/images/live.gif" border="0" title="Live...">  <a href="/League/eSports/1841650.html"><b>王者荣耀. 韩国王者职业联赛. 秋季联赛. 七局四胜</b></a> <a href="/live/eSports/dAoVezZbl9hkw8C3dkHXui0wmhxoO9Jd1Q/Actoz+Stars+Gold_VS_Team+MVP/">Actoz Stars Gold VS Team MVP 战队</a></td>
+        <td class="col-md-2 text-center"><font color="#FF0000"><b>电子竞技</b></font></td>
+        </tr><tr>
+        <td class="col-md-8">17:30<img src="/images/live.gif" border="0" title="Live...">  <a href="/League/eSports/1844612.html"><b>CS:GO. InstaFrag Premier. Best of 3 maps</b></a> <a href="/live/eSports/dgwUJjxcl95kw8CyckjevCwugxBuPt5X/AVANT_VS_Paradox/">AVANT VS Paradox 战队</a></td>
         <td class="col-md-2 text-center"><font color="#FF0000"><b>电子竞技</b></font></td>
         </tr> </tbody>
   </table>

diff --git a/mysql/conn.js b/mysql/conn.js
@@ -1,6 +1,6 @@
 const mysql = require("mysql");
 var sqlOpeate = module.exports;
-
+var moment=require("moment")
 var connection = mysql.createConnection({
     host: 'localhost',
     user: 'root',
@@ -70,8 +70,8 @@ sqlOpeate.add = function (data) {
                     // reject();
                 }
                 else if (result.length == 0) {
-                    var addSql = 'INSERT INTO mytb(time,raceName,raceLink,typeName,raceNameLink,raceRival) VALUES(?,?,?,?,?,?)';
-                    var addSqlParams = [data.time, data.raceName, data.raceLink, data.typeName, data.raceNameLink, data.raceRival];
+                    var addSql = 'INSERT INTO mytb(time,raceName,raceLink,typeName,raceNameLink,raceRival,update) VALUES(?,?,?,?,?,?,?)';
+                    var addSqlParams = [data.time, data.raceName, data.raceLink, data.typeName, data.raceNameLink, data.raceRival,moment().format("YYYY-MM-DD HH:ss:mm")];
                   
                     connection.query(addSql, addSqlParams, function (err) {
                         if (err) {

diff --git a/express/app.js b/express/app.js
@@ -1,0 +1,28 @@
+
+
+const express = require("express")
+const app = express();
+const sqlOpeate = require("./db.js")
+app.post('/api/getlist', (req, res) => {
+    var data = {}
+    try {
+        var data = sqlOpeate.query().then((list) => {
+            data.data = list;
+            data.code = 0;
+            data.msg = "成功！";
+            // console.log(data)
+            // res.send(JSON.stringify(data));
+            res.send(JSON.stringify(data));
+        }).catch((err) => {
+            throw err
+        })
+    } catch (e) {
+        data.data = [];
+        data.code = 1;
+        data.msg = err.message;
+        // res.send(JSON.stringify(data));
+    }
+
+});
+
+app.listen(3001, () => console.log('Example app listening on port 3001!'));

diff --git a/express/db.js b/express/db.js
@@ -1,0 +1,28 @@
+const mysql = require("mysql");
+var sqlOpeate = module.exports;
+
+var connection = mysql.createConnection({
+    host: 'localhost',
+    user: 'root',
+    password: 'root',
+    port: '3306',
+    database: 'mydb'
+});
+
+connection.connect();
+sqlOpeate.query = function (data) {
+    return new Promise( (resolve, reject) => {
+        connection.query(`SELECT * FROM mytb`
+        , function (err, result) {
+            // connection.end();
+                if (err) {
+                    reject(err);
+                }
+                else {
+                    resolve(result)
+                }
+            });
+
+
+    })
+}

diff --git a/app.js b/app.js
@@ -18,12 +18,11 @@ function exec() {
         fs.writeFileSync("hehe.html", content)
         // const content=fs.readFileSync("hehe.html")
         const data = dealData.dealContent(content) || [];
-        for (var i = data.length - 1; ; i--) {
+        for (var i = data.length - 1; i>=0; i--) {
             // await sqlOpeate.open();
             // console.log(JSON.stringify(data[i]))
             await sqlOpeate.add(data[i]);
 
-            // await sqlOpeate.close();
         }
     })()
 }
